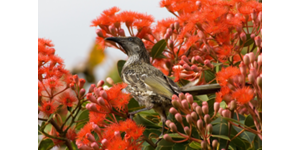
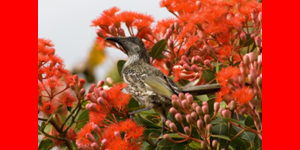
Updated fit docs with better example

Changed region(s): [[0.87, 0.0, 1.0, 1.0], [0.0, 0.0, 0.15, 1.0]]

diff --git a/README.md b/README.md
@@ -20,20 +20,20 @@ instance where operations that can be performed in place mutate the original ins
 
 | Operation        | Description | Example |
 | ------------- |-------------|-------------|
-| resize | Resizes the canvas to the given dimensions. This does not scale the image but simply changes the dimensions of the canvas on which the image is sitting. Specifying a larger size will pad the image with a background color and specifying a smaller size will crop the image. | ```image.resizeTo(500,800)``` for an absolute resize or ```image.resize(0.5)``` for a percentage resize
-| scale | Scales the image to given dimensions. This operation will change both the canvas and the image. This is what most people think of when they want a "resize" operation. | ```image.scaleTo(x,y)``` to specify dimensions or ```image.scale(percentage)``` for a percentage scale
-| pad | Resizes the canvas by adding a number of pixels around the image in a given color. | ```image.pad(20, Color.Black)``` would add 20 pixels of black on each edge, increasing both canvas width and height by 40 pixels. 
-| fit | Resizes the canvas to the given dimensions and scales the original image so that it is the maximum possible size inside the canvas while maintaining aspect ratio.<br/><br/>This operation is useful if you want a group of images to all have the same canvas dimensions while maintaining the original aspect ratios. Think thumbnails on a site like amazon where they are padded with white background. | Given a 800x600 image then ```image.fit(200,200,Color.White)``` would result in a new image of 200x200 (as specified in the call) where the original image is now 200,150 as that is the largest it can be scaled to without overflowing the canvas bounds. The additional 'spare' height of 50 pixels would be set to the given background color, white in this case.
-| cover | Resizes the canvas to the given dimensions and scales the original image so that it is the minimum size needed to cover the new dimensions without leaving any background visible.<br/><br/>This operation is useful if you want to generate an avatar/thumbnail style image from a larger image where having no background is more important than cropping part of the image. Think a facebook style profile thumbnail. | Given a 64x64 image then ```image.cover(128,96)``` would result in a new image of 128x96 where the original image is now 128,128 as that is the smallest it can be scaled to without leaving any visible background. 32 pixels of the height is lost as that is "off canvas" |
 | bound | Scales the image maintaining the aspect ratio so that it fits inside the given dimensions. There is no padding included so the resultant image might not have the exact dimensions specified, but it will be as large as possible without overflowing the bounds (hence the name).<br/><br/>This is useful when you want to ensure images do not exceed a certain size, but you don't any padding. | Given a 800x600 image then ```image.bound(200,200)``` would scale the image to 200x150 as that is the largest it can be without overflowing the 200x200 bounds whilst maintaining the same aspect ratio.
 | copy | Creates a new clone of this image with a new pixel buffer. Any operations on the copy do not write back to the original.| ```image.copy``` |
+| cover | Resizes the canvas to the given dimensions and scales the original image so that it is the minimum size needed to cover the new dimensions without leaving any background visible.<br/><br/>This operation is useful if you want to generate an avatar/thumbnail style image from a larger image where having no background is more important than cropping part of the image. Think a facebook style profile thumbnail. | Given a 64x64 image then ```image.cover(128,96)``` would result in a new image of 128x96 where the original image is now 128,128 as that is the smallest it can be scaled to without leaving any visible background. 32 pixels of the height is lost as that is "off canvas" |
 | empty | Creates a new image but without initializing the data buffer to any specific values.| ```image.empty``` on an existing instance to use the same dimensions or ```Image.empty(x,y)``` to create a new image with the given dimensions |
 | filled | Creates a new image and initializes the data buffer to the given color. | ```image.filled(Color.Red)``` |
-| rotate left | Rotates the image anti clockwise. Results in width and height being flipped.| ```image.rotateLeft``` |
-| rotate right | Rotates the image clockwise. Results in width and height being flipped. | ```image.rotateRight``` |
+| fit | Resizes the canvas to the given dimensions and scales the original image so that it is the maximum possible size inside the canvas while maintaining aspect ratio.<br/><br/>This operation is useful if you want a group of images to all have the same canvas dimensions while maintaining the original aspect ratios. Think thumbnails on a site like amazon where they are padded with white background. | Given a 800x600 image then ```image.fit(200,200,Color.White)``` would result in a new image of 200x200 (as specified in the call) where the original image is now 200,150 as that is the largest it can be scaled to without overflowing the canvas bounds. The additional 'spare' height of 50 pixels would be set to the given background color, white in this case.
 | flip x | Flips the image horizontally. Left becomes right. | ```image.flipX``` |
 | flip y | Flips the image vertically. Top becomes bottom. | ```image.flipY``` |
 | filter | Returns a new image with the given filter applied. See the filters section for examples of the filters available. Filters can be chained and are applied in sequence. | ```image.filter(BlurFilter)``` or ```image.filter(GaussianBlur(5)).filter(SepiaFilter)``` Most filters can be created from companion objects with sensible default values. |
+| pad | Resizes the canvas by adding a number of pixels around the image in a given color. | ```image.pad(20, Color.Black)``` would add 20 pixels of black on each edge, increasing both canvas width and height by 40 pixels.
+| resize | Resizes the canvas to the given dimensions. This does not scale the image but simply changes the dimensions of the canvas on which the image is sitting. Specifying a larger size will pad the image with a background color and specifying a smaller size will crop the image. | ```image.resizeTo(500,800)``` for an absolute resize or ```image.resize(0.5)``` for a percentage resize
+| rotate left | Rotates the image anti clockwise. Results in width and height being flipped.| ```image.rotateLeft``` |
+| rotate right | Rotates the image clockwise. Results in width and height being flipped. | ```image.rotateRight``` |
+| scale | Scales the image to given dimensions. This operation will change both the canvas and the image. This is what most people think of when they want a "resize" operation. | ```image.scaleTo(x,y)``` to specify dimensions or ```image.scale(percentage)``` for a percentage scale
 
 
 ### Quick Examples

diff --git a/guide/fit.md b/guide/fit.md
@@ -1,6 +1,6 @@
 ## Fit
 
-The fit operation will create an image that is exactly the specified dimensions, and the given image is scaled to fit inside, such that none of the original image is lost. If the target dimensions do not have the same aspect ratio as the source image then the excess "space" will be set to a default background color.
+The fit operation will create an image that is exactly the specified dimensions, and the given image is scaled to fit inside, such that none of the original image is lost. If the target dimensions do not have the same aspect ratio as the source image then because the original image cannot be scaled eactly to fit, then it will be "over scaled" and the excess "space" will be set to a default background color.
 
 Compare this operation with cover.
 
@@ -15,7 +15,7 @@ or to create 240x160 with black background.
 image.cover(240,160, Color.BLACK)
 ```
 
-As always a picture is worth a thousand lines of code. In this example, the original bird image was invoked with `bird.fit(300,150, Color.WHITE)`. As you can see, the output image is of course 300x150, but because the original image had a different aspect ratio, there is no way to exactly scale the image. So the original image is scaled to fit inside and the excess space is set to the given background color (in this case white. Perhaps a different color would have been a more effective demo).
+As always a picture is worth a thousand lines of code. In this example, the original bird image was invoked with `bird.fit(300,150, Color.WHITE)`. As you can see, the output image is of course 300x150, but because the original image had a different aspect ratio, there is no way to exactly scale the image. So the original image is scaled to fit inside without any loss. Then the excess background is set to the given background color (in this case red).
 
 <table>
 <tr>
